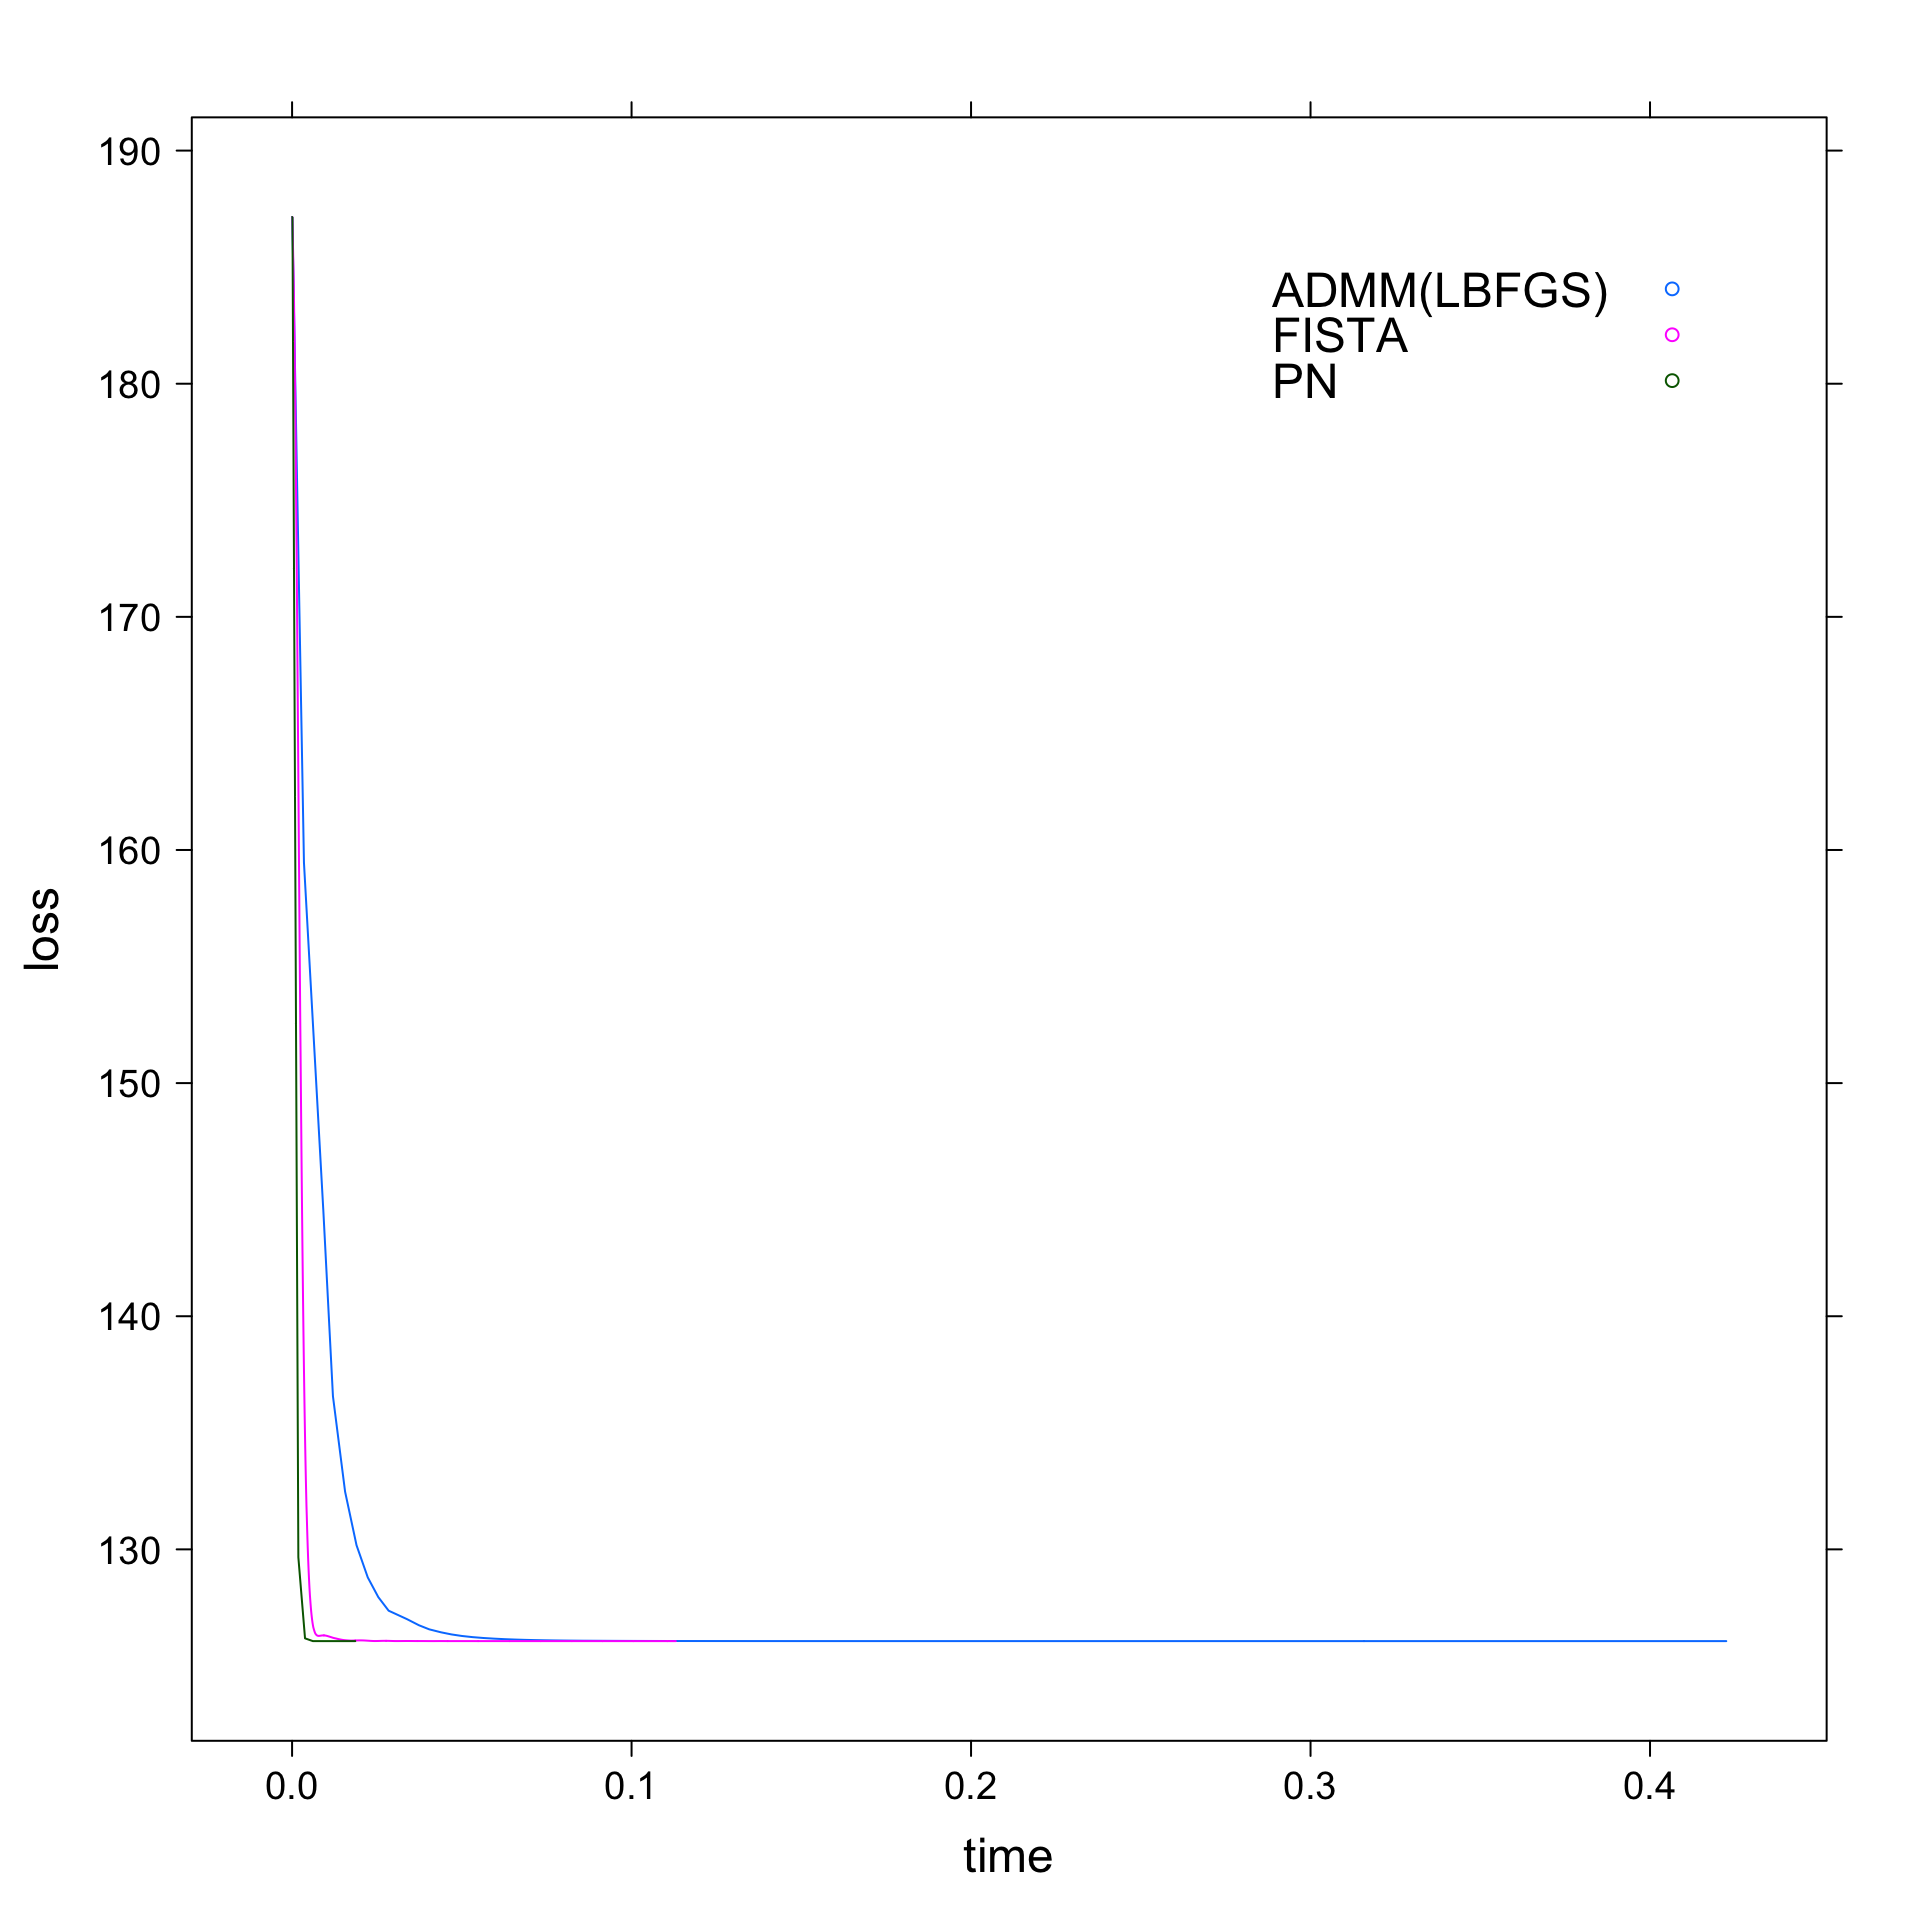
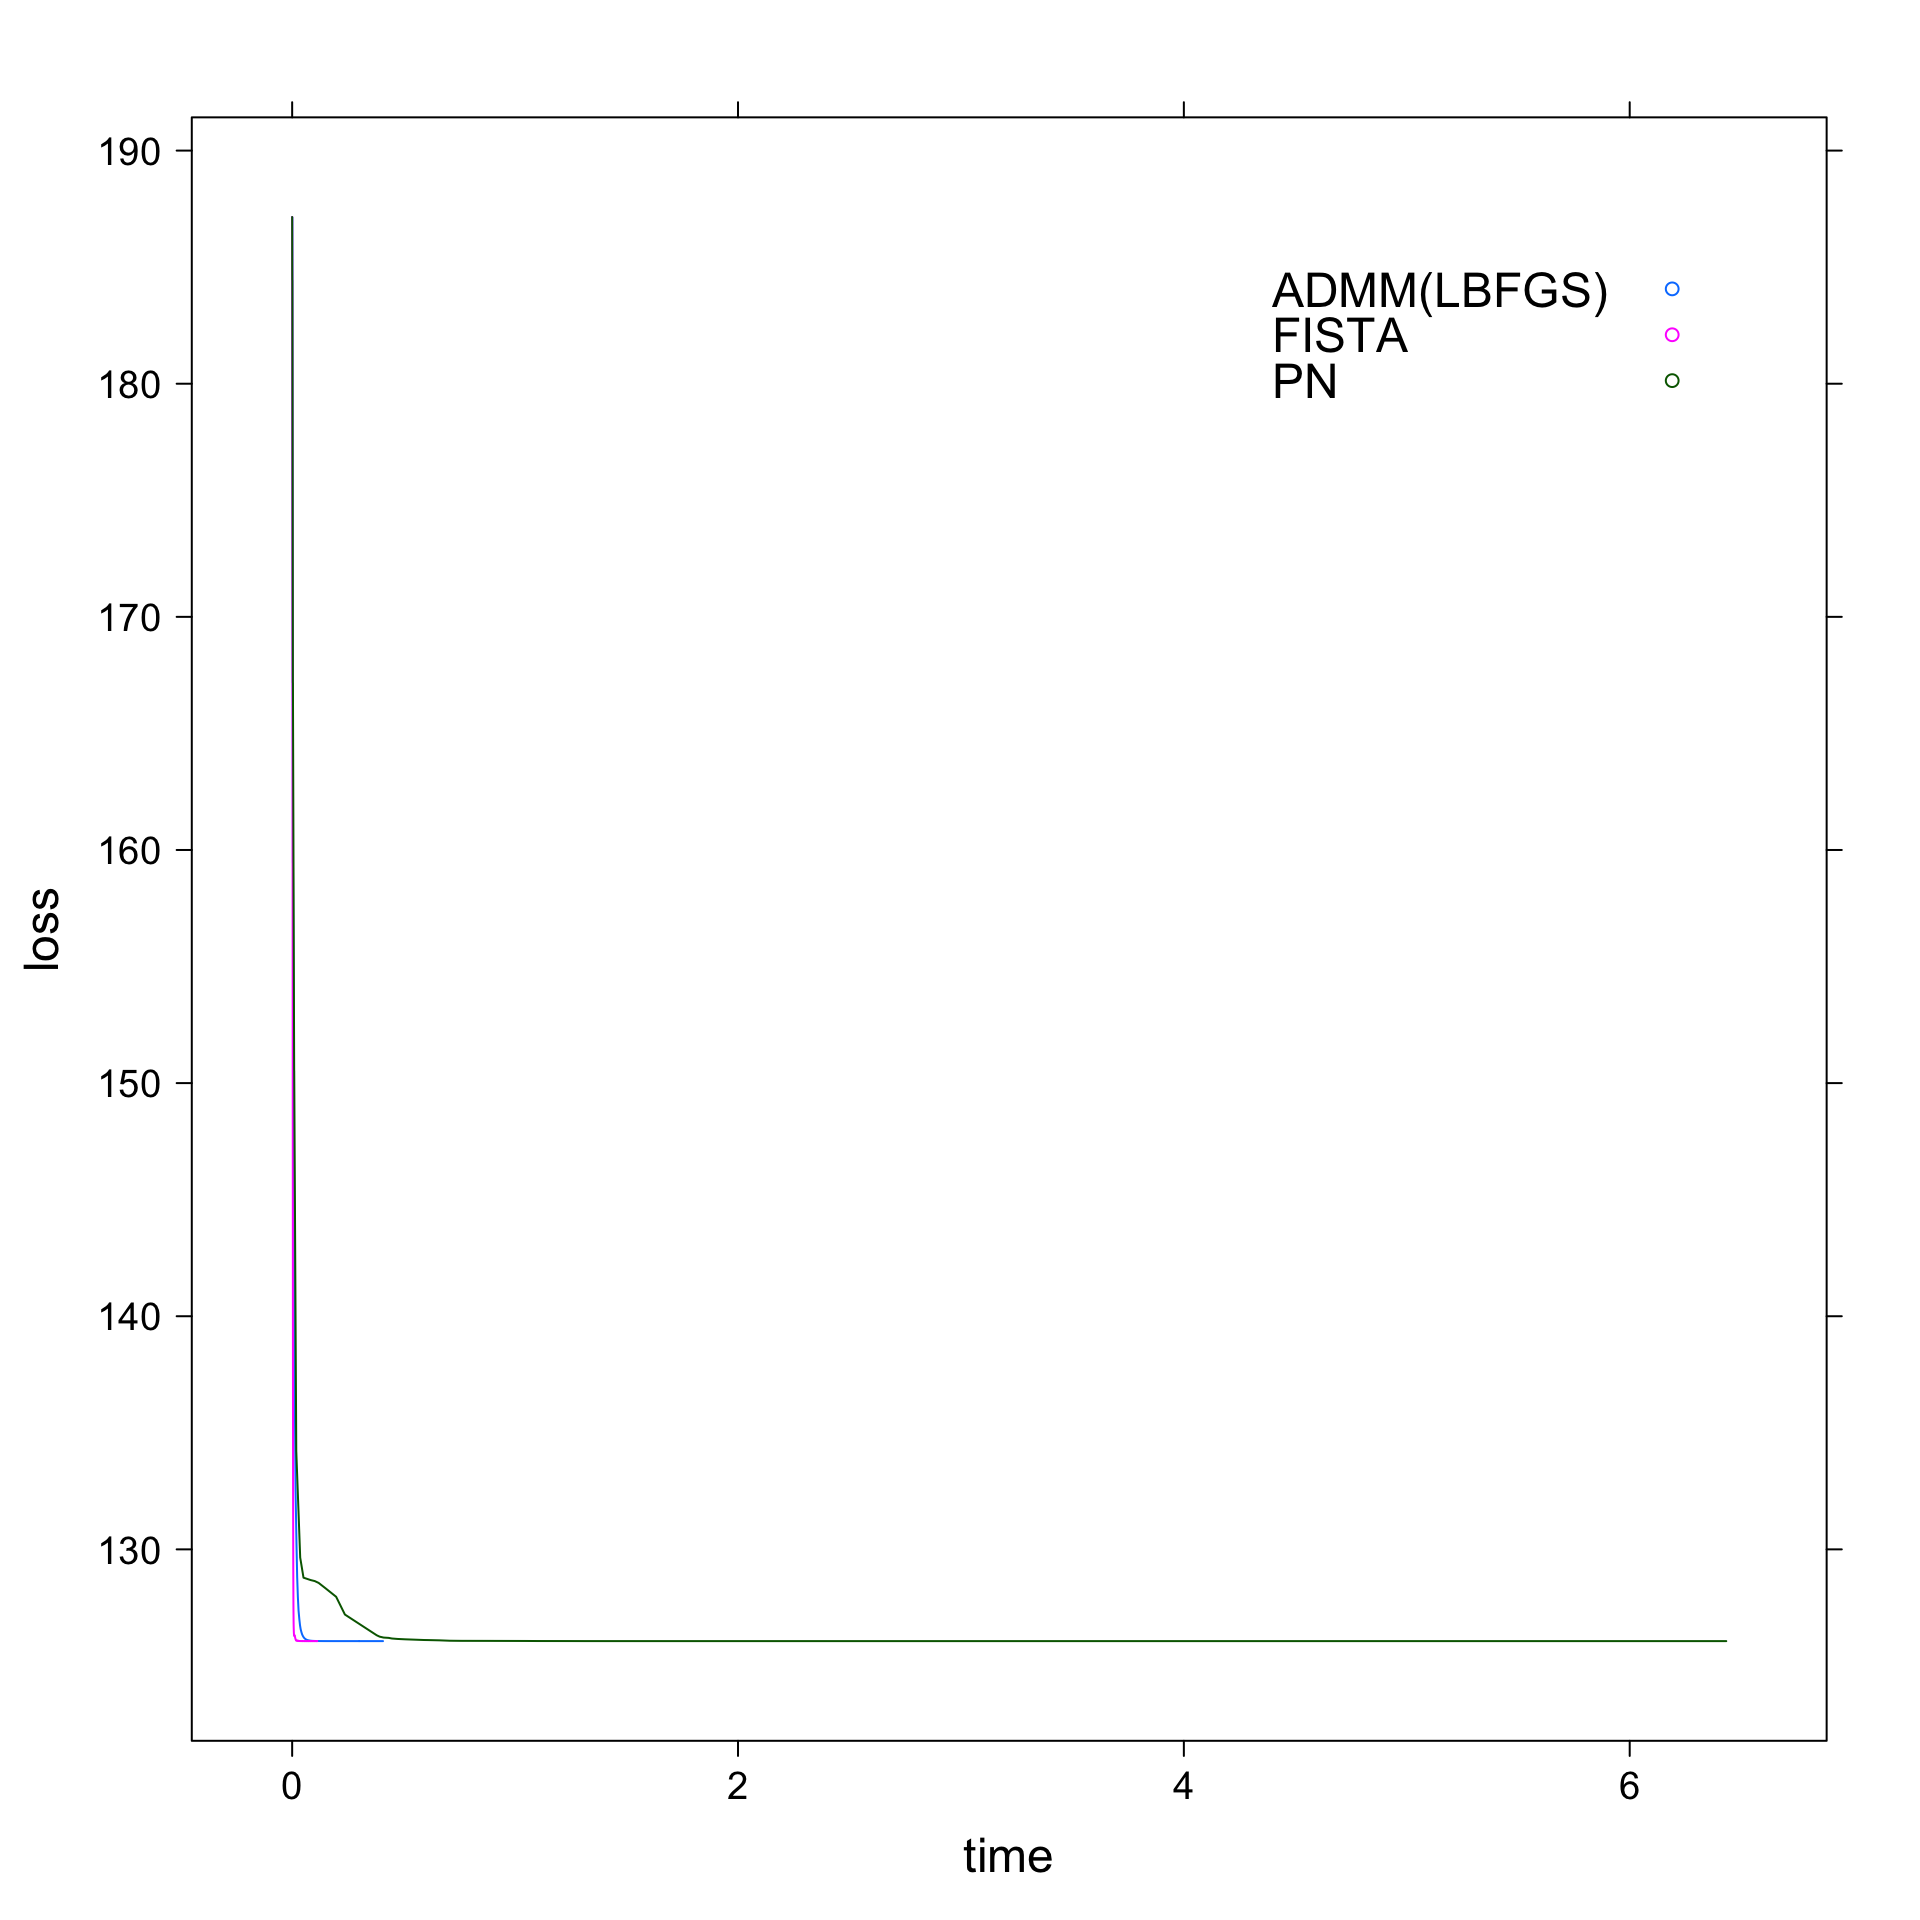
Built site for solvers: 1.0@2bdeb76

diff --git a/reference/PN.html b/reference/PN.html
@@ -144,7 +144,9 @@
   tol_dev_change = <span class='fl'>1e-05</span>,
   tol_dev_ratio = <span class='fl'>0.995</span>,
   max_variables = <span class='fu'><a href='https://rdrr.io/r/base/nrow.html'>NROW</a></span>(<span class='kw'>x</span>),
-  max_passes = <span class='fl'>150</span>,
+  hessian_calc = <span class='fu'><a href='https://rdrr.io/r/base/c.html'>c</a></span>(<span class='st'>"lbfgs"</span>, <span class='st'>"exact"</span>),
+  max_passes = <span class='co'>if</span> (<span class='kw'>hessian_calc</span> <span class='op'>==</span> <span class='st'>"exact"</span>) <span class='fl'>500</span> <span class='co'>else</span> <span class='fl'>3000</span>,
+  tol_coef = <span class='fl'>1e-10</span>,
   diagnostics = <span class='fl'>FALSE</span>,
   verbosity = <span class='fl'>0</span>
 )</pre>
@@ -261,8 +263,19 @@ For the multinomial family, this value will be multiplied internally with
 the number of levels of the response minus one.</p></td>
     </tr>
     <tr>
+      <th>hessian_calc</th>
+      <td><p>Method to use for Hessian caluclation.</p><ul>
+<li><p><code>"exact"</code> No approximations will be made.</p></li>
+<li><p><code>"lbfgs"</code> Updates will be made using L-BFGS.</p></li>
+</ul></td>
+    </tr>
+    <tr>
       <th>max_passes</th>
       <td><p>maximum number of passes (outer iterations) for solver</p></td>
+    </tr>
+    <tr>
+      <th>tol_coef</th>
+      <td><p>Tolerance to use for change in L2 norm of variable</p></td>
     </tr>
     <tr>
       <th>diagnostics</th>

diff --git a/articles/compare_opt_algo.html b/articles/compare_opt_algo.html
@@ -78,7 +78,7 @@
       <h1 data-toc-skip>Comparing Optimization Algorithm Choices in ADMM</h1>
                         <h4 class="author">Akarsh Goyal</h4>
             
-            <h4 class="date">2020-07-24</h4>
+            <h4 class="date">2020-08-05</h4>
       
       
       <div class="hidden name"><code>compare_opt_algo.Rmd</code></div>
@@ -111,11 +111,11 @@
 <div class="sourceCode" id="cb4"><pre class="downlit">
 <span class="co"># Comparing total execution time</span>
 <span class="fu"><a href="https://rdrr.io/r/base/print.html">print</a></span>(<span class="kw">admm_nr</span><span class="op">$</span><span class="kw">total_time</span>)
-<span class="co">#&gt; [1] 0.801085</span>
+<span class="co">#&gt; [1] 0.8347099</span>
 <span class="fu"><a href="https://rdrr.io/r/base/print.html">print</a></span>(<span class="kw">admm_bfgs</span><span class="op">$</span><span class="kw">total_time</span>)
-<span class="co">#&gt; [1] 2.927135</span>
+<span class="co">#&gt; [1] 3.712453</span>
 <span class="fu"><a href="https://rdrr.io/r/base/print.html">print</a></span>(<span class="kw">admm_lbfgs</span><span class="op">$</span><span class="kw">total_time</span>)
-<span class="co">#&gt; [1] 2.953554</span>
+<span class="co">#&gt; [1] 4.67287</span>
 </pre></div>
 <p>Now, these fits cannot be directly used to plot as they contain a lot of parameter so we’ll call a utility function that merges the relevant parameter and returns a dataframe.</p>
 <div class="sourceCode" id="cb5"><pre class="downlit">

diff --git a/articles/compare-fista-admm-pn.html b/articles/compare-fista-admm-pn.html
@@ -78,7 +78,7 @@
       <h1 data-toc-skip>Comparing FISTA, ADMM and Proximal Newton</h1>
                         <h4 class="author">Akarsh Goyal</h4>
             
-            <h4 class="date">2020-07-24</h4>
+            <h4 class="date">2020-08-05</h4>
       
       
       <div class="hidden name"><code>compare-fista-admm-pn.Rmd</code></div>
@@ -109,11 +109,11 @@
 <div class="sourceCode" id="cb4"><pre class="downlit">
 <span class="co"># Comparing total execution time</span>
 <span class="fu"><a href="https://rdrr.io/r/base/print.html">print</a></span>(<span class="kw">fista_fit</span><span class="op">$</span><span class="kw">total_time</span>)
-<span class="co">#&gt; [1] 0.1134136</span>
+<span class="co">#&gt; [1] 0.1132709</span>
 <span class="fu"><a href="https://rdrr.io/r/base/print.html">print</a></span>(<span class="kw">admm_fit</span><span class="op">$</span><span class="kw">total_time</span>)
-<span class="co">#&gt; [1] 0.4256452</span>
+<span class="co">#&gt; [1] 0.41057</span>
 <span class="fu"><a href="https://rdrr.io/r/base/print.html">print</a></span>(<span class="kw">pn_fit</span><span class="op">$</span><span class="kw">total_time</span>)
-<span class="co">#&gt; [1] 0.02193741</span>
+<span class="co">#&gt; [1] 6.531866</span>
 </pre></div>
 <p>Now, these fits cannot be directly used to plot as they contain a lot of parameter so we’ll call a utility function that merges the relevant parameter and returns a dataframe.</p>
 <div class="sourceCode" id="cb5"><pre class="downlit">

diff --git a/reference/randomProblem.html b/reference/randomProblem.html
@@ -153,15 +153,15 @@
     </tr>
     <tr>
       <th>q</th>
-      <td><p>&lt;TODO&gt;</p></td>
+      <td><p>Parameter controlling lambda sequence</p></td>
     </tr>
     <tr>
       <th>n_groups</th>
-      <td><p>&lt;TODO&gt;</p></td>
+      <td><p>Number of groups of predictors</p></td>
     </tr>
     <tr>
       <th>n_targets</th>
-      <td><p>&lt;TODO&gt;</p></td>
+      <td><p>Dimension of response variable</p></td>
     </tr>
     <tr>
       <th>density</th>
@@ -169,11 +169,11 @@
     </tr>
     <tr>
       <th>amplitude</th>
-      <td><p>&lt;TODO&gt;</p></td>
+      <td><p>Scale of coefficient in output</p></td>
     </tr>
     <tr>
       <th>alpha</th>
-      <td><p>&lt;TODO&gt;</p></td>
+      <td><p>Standard deviation</p></td>
     </tr>
     <tr>
       <th>response</th>
@@ -181,7 +181,7 @@
     </tr>
     <tr>
       <th>rho</th>
-      <td><p>&lt;TODO&gt;</p></td>
+      <td><p>Correlation</p></td>
     </tr>
     </table>
 
